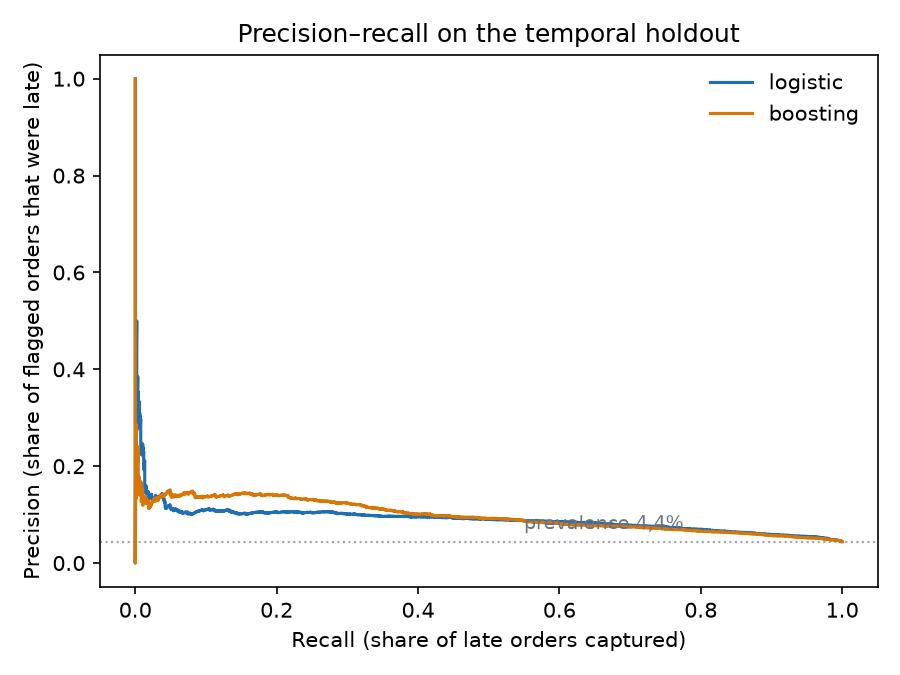
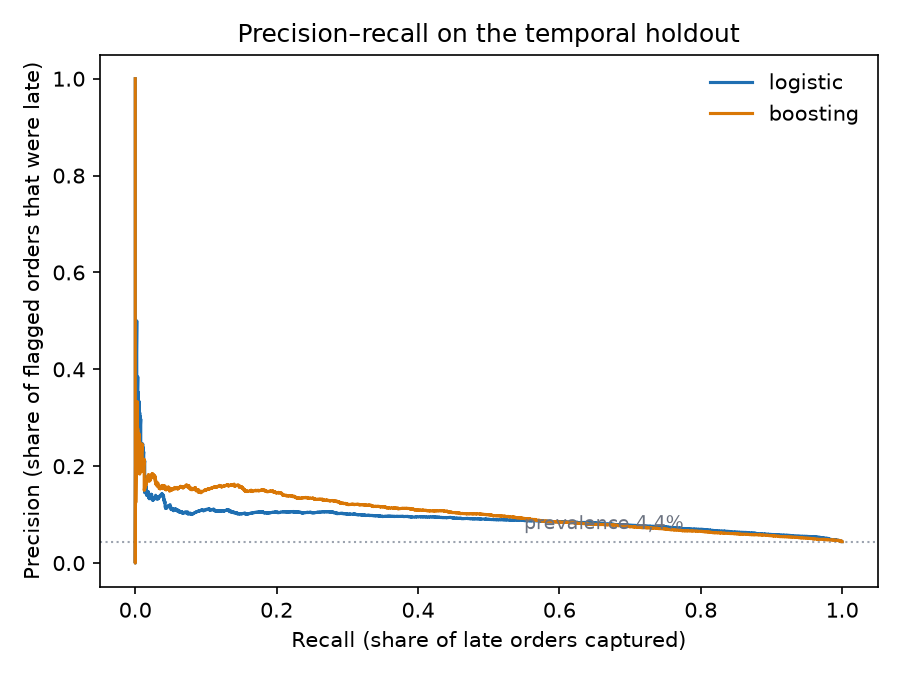
fix: make late-delivery training deterministic and align reported metrics

diff --git a/projects/02-late-delivery/scripts/train_model.py b/projects/02-late-delivery/scripts/train_model.py
@@ -70,7 +70,9 @@ STRINGS = {
         "pr_title": "Precisão–recall na amostra temporal",
     },
 }
-QUERY = "SELECT * FROM analytics_marts.mart_order_features"
+# Stable row order: the boosting model's internal early-stopping split depends
+# on it, so an unordered read makes the reported metrics drift between runs.
+QUERY = "SELECT * FROM analytics_marts.mart_order_features ORDER BY order_id"
 
 
 def load_features() -> pd.DataFrame:

diff --git a/docs/metrics.md b/docs/metrics.md
@@ -311,7 +311,7 @@ purpose.
 **Results on the holdout.** Selected logistic: AUC 0.708 (0.695–0.720), AP 0.091
 (0.083–0.101), Brier 0.0420, top-decile precision 10.4% (9.3–11.5%), recall
 23.5% (21.6–25.6%) and lift 2.35× (2.16–2.56×). Gradient boosting scores AP
-0.097 and top-decile recall 28.4%, so the model class is not settled by this
+0.103 and top-decile recall 28.6%, so the model class is not settled by this
 holdout.
 
 **Calibration is a level shift, not a broken ranking.** Mean prediction is 6.38%
